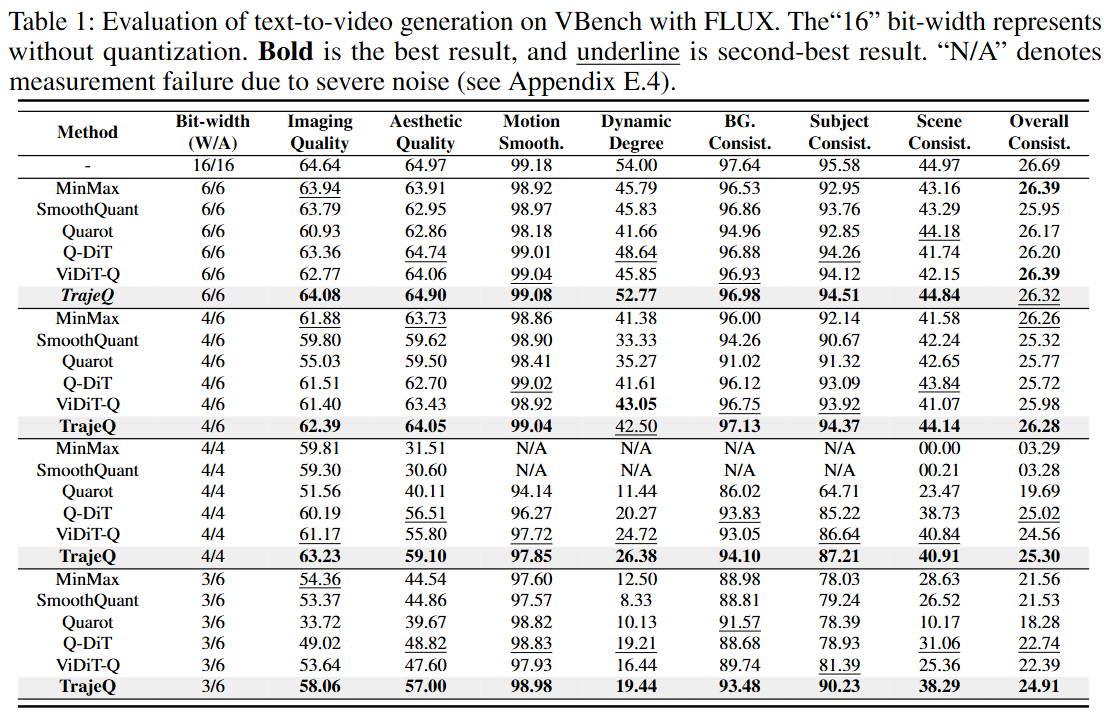
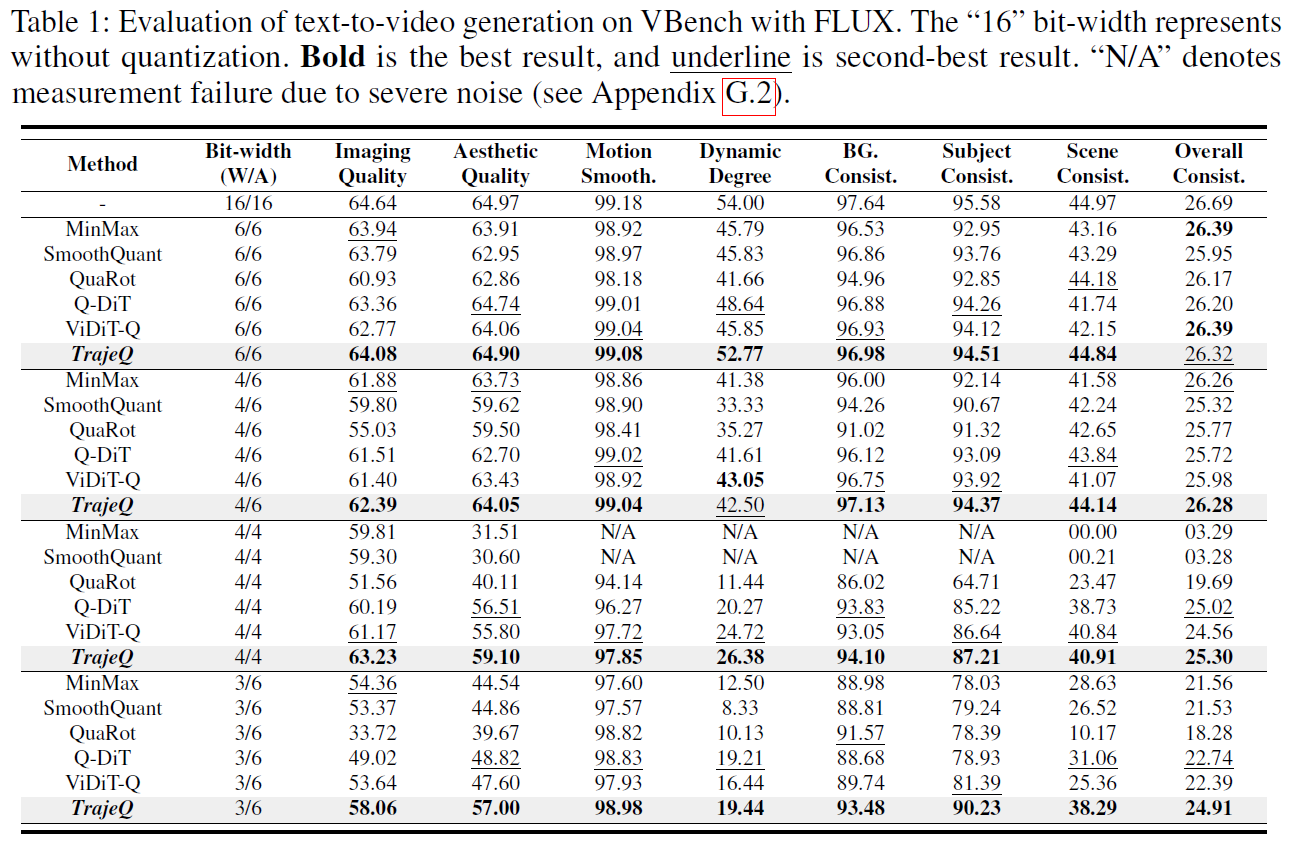
Update paper figures, abstract, and balanced method descriptions

Changed region(s): [[0.0, 0.0, 1.0, 1.0]]

diff --git a/index.html b/index.html
@@ -152,7 +152,7 @@
         <h2 class="title is-3">Abstract</h2>
         <div class="content has-text-justified">
           <p>
-           While flow matching (FM) has emerged as a prominent paradigm for high-quality video generation, its significant computational overhead presents a major obstacle to practical implementation. Although post-training quantization (PTQ) is an established approach for efficient generation, existing PTQ methods primarily minimize reconstruction error in a magnitude-centric manner. This objective is misaligned with deterministic FM trajectories, where low-bit quantization introduces velocity-field orientation errors that can compound across integration steps and cause deviations from the full-precision trajectory. To address this issue, we introduce <em><strong>TrajeQ</strong></em> to preserve the geometric integrity of the velocity field and reduce trajectory drift under low-bit quantization. Our approach introduces <em>Curvature-Adaptive Quantization (CAQ)</em> to detect angular shifts across timesteps and mitigate geometric distortion via adaptive precision. We also integrate <em>Directional Bottleneck Preservation (DBP)</em>, a sensitivity-guided precision assignment scheme that retains only the most vulnerable layers in full precision. Experiments demonstrate that <em><strong>TrajeQ</strong></em> achieves state-of-the-art VBench performance and maintains stable video generation under extreme W4A4 and W3A6 quantization regimes where existing methods collapse. We provide the code in the supplementary material and the video results on the <a href="https://anonymous-orange.github.io/" target="_blank">https://anonymous-orange.github.io</a>.
+           While flow matching (FM) has emerged as a prominent paradigm for high-quality video generation, its significant computational overhead presents a major obstacle to practical implementation. Although post-training quantization (PTQ) is an established approach for efficient generation, existing PTQ methods primarily minimize reconstruction error in a magnitude-centric manner. This objective is misaligned with deterministic FM trajectories, where low-bit quantization introduces velocity-field orientation errors that can compound across integration steps and cause deviations from the full-precision trajectory. To address this issue, we introduce <em><strong>TrajeQ</strong></em> to preserve the geometric integrity of the velocity field and reduce trajectory drift under low-bit quantization. Our approach introduces <em>Curvature-Adaptive Quantization (CAQ)</em> to detect angular shifts across timesteps and mitigate geometric distortion via adaptive precision. We also integrate <em>Directional Bottleneck Preservation (DBP)</em>, a sensitivity-guided precision assignment scheme that retains only the most vulnerable layers in full precision. Experiments demonstrate that <em><strong>TrajeQ</strong></em> achieves state-of-the-art VBench performance and maintains stable video generation under extreme W4A4 and W3A6 quantization regimes where existing methods collapse. We provide the code in the supplementary material and additional video results on the <a href="https://anonymous-orange.github.io/" target="_blank">Project Page</a>.
           </p>
         </div>
       </div>
@@ -312,55 +312,52 @@
     <div class="columns" style="margin: 0;">
       <!-- CAQ -->
       <div class="column is-half" style="padding: 0 1rem 0 0;">
-        <h3 class="title is-4" style="margin-bottom: 1rem;">Curvature-Adaptive Quantization (CAQ)</h3>
+        <h3 class="title is-4" style="margin-bottom: 1rem;">Curvature-Adaptive Quantization<br>(CAQ)</h3>
         <div class="content" style="padding: 0; margin: 0;">
           <h5 style="margin-top: 0; margin-bottom: 0.5rem;"><strong>Motivation</strong></h5>
           <p style="margin: 0 0 1rem 0; font-size: 0.95rem; line-height: 1.6;">
-            Flow Matching trajectories exhibit varying degrees of directional change during sampling. CAQ uses changes in activation direction to guide timestep-wise precision allocation, aiming to reduce trajectory drift under low-bit quantization.
+            Activation directions can change sharply during flow-matching sampling. Since full-precision reference velocities are unavailable during quantized inference, CAQ uses inter-step activation changes as a proxy to guide precision allocation and reduce trajectory drift.
           </p>
           
           <h5 style="margin-top: 1rem; margin-bottom: 0.5rem;"><strong>Key Mechanism</strong></h5>
           <ul style="margin: 0; padding-left: 20px;">
             <li style="margin-bottom: 5px;">
-              <strong>Timestep Selection:</strong> CAQ computes the cosine distance between consecutive flattened activations at each quantized layer to identify timesteps for additional precision.
+              <strong>Timestep Selection:</strong> At each quantized layer, CAQ computes the cosine distance between the current flattened activation and its cached value from the preceding timestep. This directional-shift score identifies timesteps for additional precision.
             </li>
             <li>
-              <strong>Adaptive Precision:</strong> When this score exceeds the threshold, CAQ increases the activation bit-width by one for the current layer and timestep.
+              <strong>Adaptive Precision:</strong> When the score exceeds the threshold of 0.25, CAQ increases the activation bit-width by one. Precision is selected independently for each layer and timestep and applies uniformly to the entire activation tensor.
             </li>
         </ul>
           
           <h5 style="margin-top: 1rem; margin-bottom: 0.5rem;"><strong>Impact</strong></h5>
           <p style="margin: 0; font-size: 0.95rem; line-height: 1.6;">
-            CAQ allocates additional precision where activation directions change sharply. In our ablations, this allocation improves generation quality over random boosting at the same number of boosted timesteps.
+            CAQ directs additional precision toward sharp activation-direction changes. In our ablations, this allocation improves generation quality over random boosting with the same number of boosted timesteps, supporting directional shifts as a useful selection signal.
           </p>
         </div>
       </div>
       
       <!-- DBP -->
       <div class="column is-half" style="padding: 0 0 0 1rem;">
-        <h3 class="title is-4" style="margin-bottom: 1rem;">Directional Bottleneck Preservation (DBP)</h3>
+        <h3 class="title is-4" style="margin-bottom: 1rem;">Directional Bottleneck Preservation<br>(DBP)</h3>
         <div class="content" style="padding: 0; margin: 0;">
           <h5 style="margin-top: 0; margin-bottom: 0.5rem;"><strong>Motivation</strong></h5>
           <p style="margin: 0 0 1rem 0; font-size: 0.95rem; line-height: 1.6;">
-            MSE can underemphasize angular distortion in layers with small activation norms. Our theoretical analysis shows that the same absolute perturbation can cause larger angular deviations at smaller activation norms, motivating sensitivity-guided layer preservation.
+            MSE can underemphasize angular distortion in layers with small activation norms. Our analysis shows that the same small orthogonal perturbation can cause larger angular deviations at smaller norms, motivating sensitivity-guided layer preservation.
           </p>
           
           <h5 style="margin-top: 1rem; margin-bottom: 0.5rem;"><strong>Key Mechanism</strong></h5>
-          <!-- <p style="margin: 0 0 1rem 0; font-size: 0.95rem; line-height: 1.6;">
-            We introduce a novel metric called "Directional Sensitivity (DS)" to pinpoint these vulnerable layers. Based on this analysis, DBP selectively preserves the most critical components—comprising less than 1% of total parameters—in FP16 precision while aggressively quantizing the rest.
-          </p> -->
           <ul style="margin: 0; padding-left: 20px;">
             <li style="margin-bottom: 5px;">
-              <strong>Layer Sensitivity Analysis:</strong> We introduce a novel metric called "Directional Sensitivity (DS)" to pinpoint vulnerable layers prone to angular distortion.
+              <strong>Layer Sensitivity Analysis:</strong> Before inference, DBP profiles full-precision and quantized activations across prompts and timesteps. Directional Sensitivity (DS) scores each layer using the ratio of mean angular error to mean squared error, with a stabilized denominator.
             </li>
             <li>
-              <strong>Strategic Preservation:</strong> Guided by DS rankings, DBP selectively retains high-sensitivity layers in FP16 under a fixed parameter budget. This targeted preservation protects vulnerable components while keeping the majority of the model quantized.
+              <strong>Strategic Preservation:</strong> DBP ranks quantizable layers by DS and preserves the highest-sensitivity subset in FP16 under a fixed parameter budget. Selected layers concentrate in embedding and normalization modules, rather than being chosen by manually specified types.
             </li>
         </ul>
           
           <h5 style="margin-top: 1rem; margin-bottom: 0.5rem;"><strong>Impact</strong></h5>
           <p style="margin: 0; font-size: 0.95rem; line-height: 1.6;">
-            This strategy prevents catastrophic quality degradation, such as color collapse or texture washout. It enables the model to maintain high-fidelity structural consistency and vivid details even under extreme low-bit quantization regimes.
+            In our analysis, preserved layers account for less than 1% of total parameters. This targeted allocation suppresses quantization-induced distortion in vulnerable components while enabling low-bit quantization elsewhere with minimal computational overhead.
           </p>
         </div>
       </div>
@@ -412,14 +409,14 @@
       </p>
     </div>
     
-    <!-- Table 3 -->
+    <!-- Figure 6 -->
     <div style="margin-bottom: 3rem;">
-      <h4 class="title is-5" style="margin-bottom: 1rem;">Table 3: Computational Cost Analysis</h4>
+      <h4 class="title is-5" style="margin-bottom: 1rem;">Figure 6: Visual Ablation of Structural Bottlenecks</h4>
       <figure class="image">
-        <img src="./static/images/table3.png" alt="Table 3: Method Ablation Study" style="border-radius: 4px; max-width: 630px; margin: 0 auto; display: block;">
+        <img src="./static/images/Fig6.png" alt="Figure 6: W4A6 visual comparison of quantized and FP16 embedding and normalization layers" style="border-radius: 4px; width: 100%; margin: 0 auto; display: block;">
       </figure>
       <p style="margin-top: 1rem; font-size: 0.95rem; color: #555;">
-        Efficiency-quality trade-off analysis on VBench. Under the challenging W3A6 regime, TrajeQ consistently surpasses existing baselines across both perceptual (LPIPS) and structural (SSIM) metrics, <strong>establishing a more favorable balance between aggressive compression and generation fidelity.</strong>
+        Visual ablation under W4A6 quantization compares quantizing both embedding and normalization layers, quantizing either group alone, and preserving both in FP16. Quantizing these components introduces color artifacts or texture degradation in this example. <strong>Preserving both in FP16 yields higher visual fidelity, illustrating the benefit of protecting structural bottlenecks.</strong>
       </p>
     </div>
   </div>
